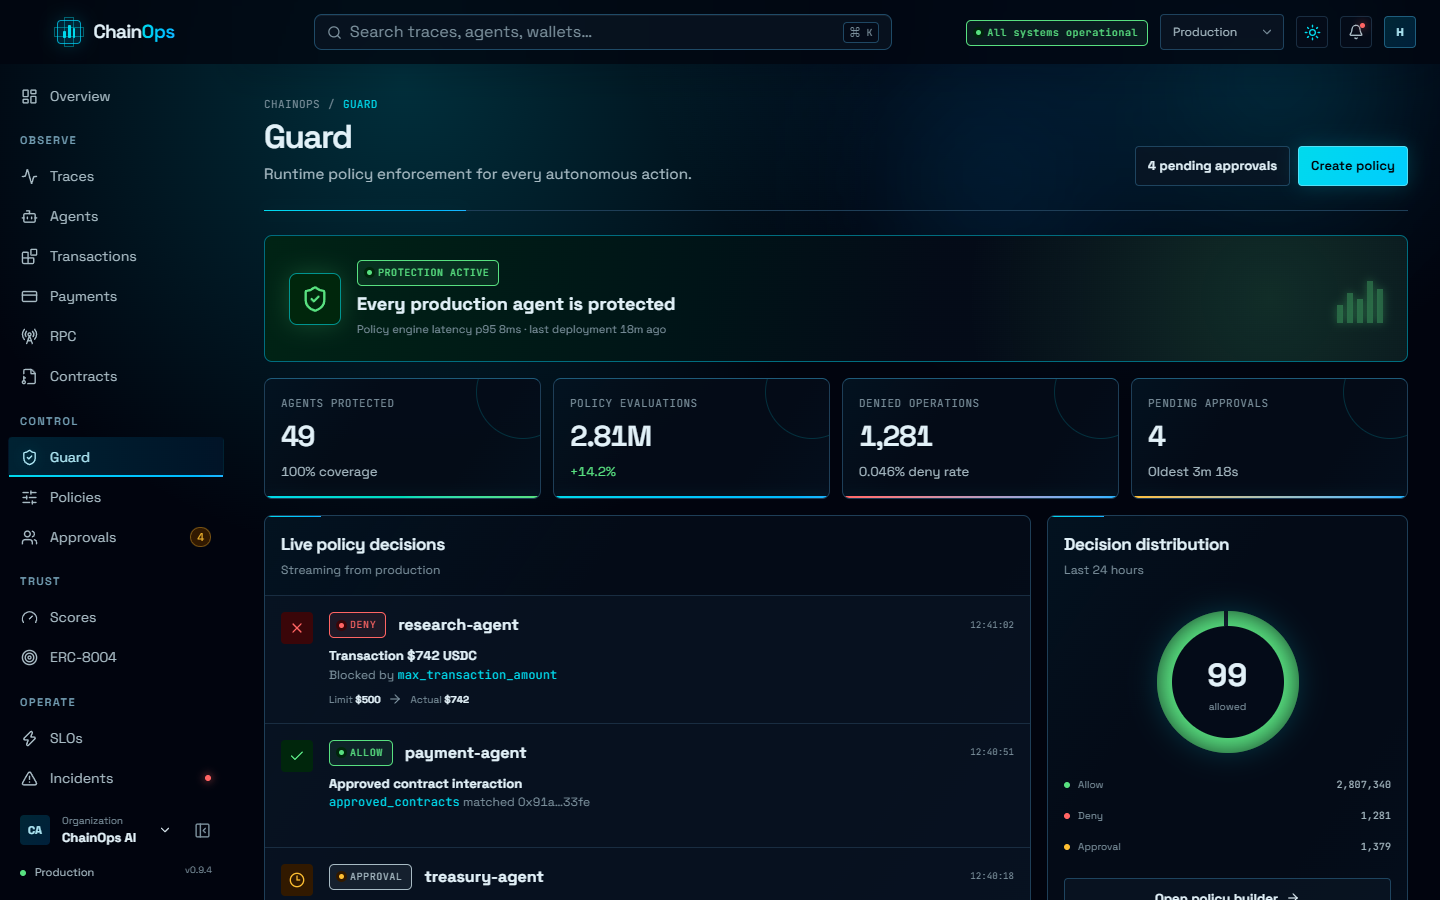
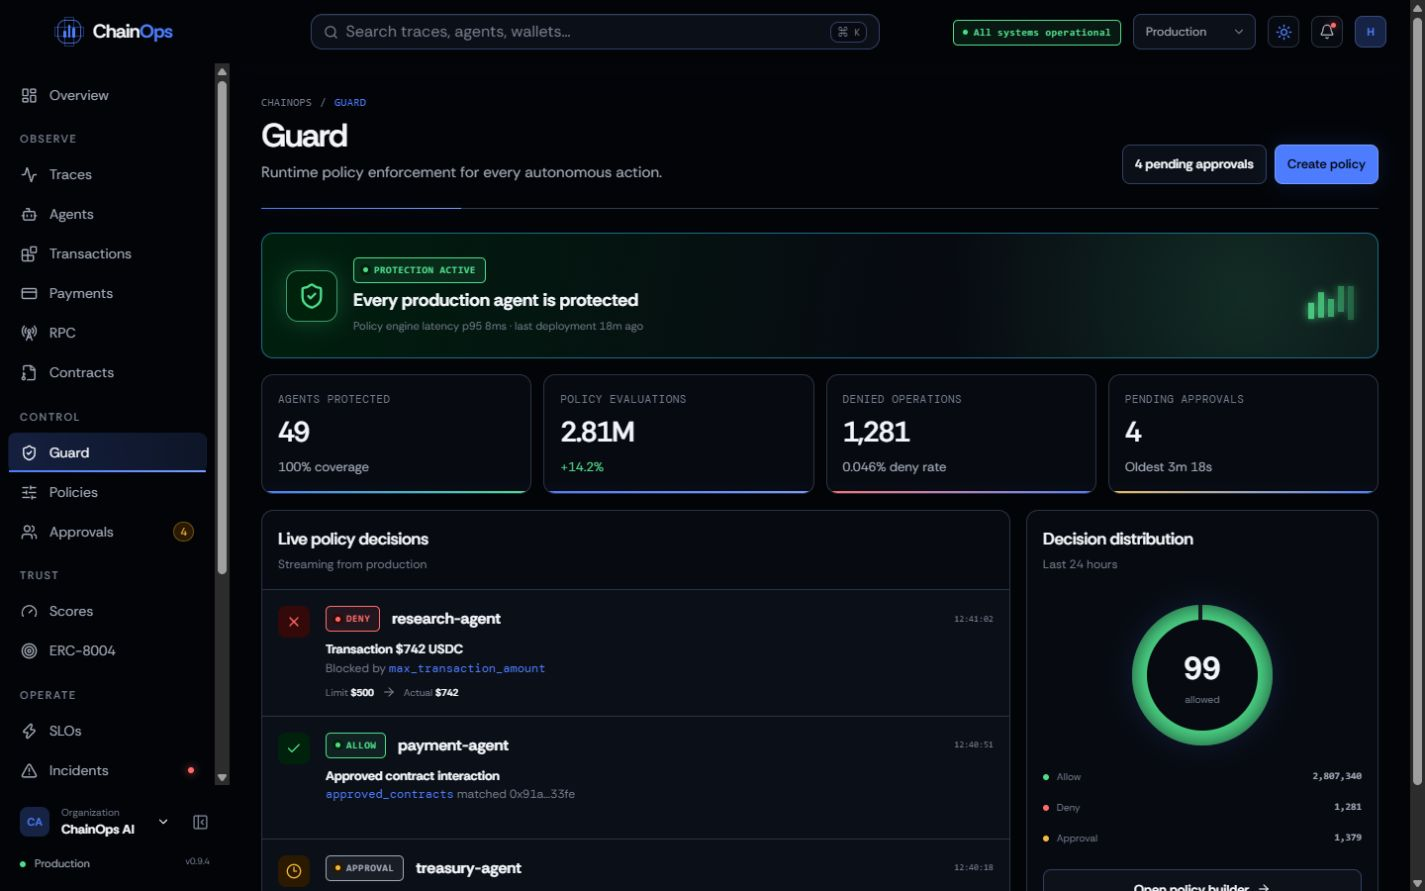
fix color error

diff --git a/src/styles.css b/src/styles.css
@@ -8,10 +8,10 @@
   --text: oklch(97% 0.006 264);
   --text-muted: oklch(73% 0.021 264);
   --text-dim: oklch(59% 0.026 264);
-  --cyan: oklch(66% 0.235 264);
-  --cyan-deep: oklch(51% 0.25 264);
-  --cobalt: oklch(72% 0.18 258);
-  --cobalt-deep: oklch(43% 0.2 264);
+  --cyan: #4d7cff;
+  --cyan-deep: #0052ff;
+  --cobalt: #76a0ff;
+  --cobalt-deep: #003ecf;
   --green: oklch(80% 0.17 154);
   --amber: oklch(82% 0.15 82);
   --on-primary: oklch(98% 0.004 264);
@@ -39,19 +39,19 @@
 }
 
 :root[data-theme="light"] {
-  --ink-0: oklch(98.5% 0.004 264);
-  --ink-1: oklch(99.5% 0.002 264);
-  --ink-2: oklch(96% 0.009 264);
-  --ink-3: oklch(91% 0.015 264);
-  --line: oklch(83% 0.024 264);
-  --line-soft: oklch(88% 0.018 264 / 0.82);
-  --text: oklch(16% 0.025 264);
-  --text-muted: oklch(42% 0.03 264);
-  --text-dim: oklch(54% 0.032 264);
-  --cyan: oklch(55% 0.26 264);
-  --cyan-deep: oklch(47% 0.245 264);
-  --cobalt: oklch(62% 0.22 258);
-  --cobalt-deep: oklch(43% 0.22 264);
+  --ink-0: oklch(100% 0 0);
+  --ink-1: oklch(100% 0 0);
+  --ink-2: oklch(96.5% 0 0);
+  --ink-3: oklch(91.5% 0 0);
+  --line: oklch(83% 0 0);
+  --line-soft: oklch(88% 0 0 / 0.82);
+  --text: oklch(15% 0 0);
+  --text-muted: oklch(40% 0 0);
+  --text-dim: oklch(53% 0 0);
+  --cyan: #0052ff;
+  --cyan-deep: #003ecf;
+  --cobalt: #2f6bff;
+  --cobalt-deep: #003ecf;
   --green: oklch(49% 0.15 154);
   --amber: oklch(55% 0.14 76);
 }
@@ -80,10 +80,10 @@ svg { flex: 0 0 auto; }
   transform-origin: 50% 48%;
   animation: backdrop-converge 1480ms var(--ease-expo) 80ms both;
 }
-.telemetry-backdrop::before { position: absolute; top: 48%; left: 50%; width: min(72vw, 1120px); aspect-ratio: 1; border: 1px solid color-mix(in oklch, var(--cyan-deep) 34%, transparent); border-radius: 50%; opacity: 0; transform: translate(-50%, -50%) scale(1.28); animation: orbit-converge 1540ms var(--ease-expo) 100ms both; content: ""; }
+.telemetry-backdrop::before { position: absolute; top: 48%; left: 50%; width: min(72vw, 1120px); aspect-ratio: 1; border: 1px solid color-mix(in srgb, var(--cyan-deep) 34%, transparent); border-radius: 50%; opacity: 0; transform: translate(-50%, -50%) scale(1.28); animation: orbit-converge 1540ms var(--ease-expo) 100ms both; content: ""; }
 .ambient-node { position: absolute; top: var(--ambient-y); left: var(--ambient-x); width: 144px; color: var(--cyan); opacity: calc(var(--ambient-opacity) + 0.04); animation: ambient-converge 1380ms var(--ease-expo) var(--ambient-intro-delay) both; }
-.ambient-node__body { min-height: 56px; padding: var(--space-2) var(--space-3); display: grid; grid-template-columns: 20px 1fr; align-items: center; gap: var(--space-2); border: 1px solid var(--line-soft); background: color-mix(in oklch, var(--ink-1) 68%, transparent); animation: ambient-float 16s var(--ease-out) var(--ambient-delay) infinite alternate; }
-.ambient-node--underlay .ambient-node__body { border-color: color-mix(in oklch, var(--line-soft) 64%, transparent); }
+.ambient-node__body { min-height: 56px; padding: var(--space-2) var(--space-3); display: grid; grid-template-columns: 20px 1fr; align-items: center; gap: var(--space-2); border: 1px solid var(--line-soft); background: color-mix(in srgb, var(--ink-1) 68%, transparent); animation: ambient-float 16s var(--ease-out) var(--ambient-delay) infinite alternate; }
+.ambient-node--underlay .ambient-node__body { border-color: color-mix(in srgb, var(--line-soft) 64%, transparent); }
 .ambient-node__body > span { min-width: 0; display: grid; gap: 3px; font-family: var(--mono); }
 .ambient-node small { overflow: hidden; color: var(--text-dim); font-size: 9px; text-overflow: ellipsis; white-space: nowrap; }
 .ambient-node strong { overflow: hidden; color: var(--text-muted); font-size: 10px; font-weight: 550; text-overflow: ellipsis; white-space: nowrap; }
@@ -99,7 +99,7 @@ main, footer { position: relative; z-index: 1; }
   right: 0;
   left: 0;
   z-index: 40;
-  background: color-mix(in oklch, var(--ink-0) 94%, transparent);
+  background: color-mix(in srgb, var(--ink-0) 94%, transparent);
   backdrop-filter: blur(20px);
 }
 .site-header::after { position: absolute; right: 0; bottom: 0; left: 0; height: 1px; background: var(--line-soft); content: ""; }
@@ -119,11 +119,11 @@ main {
 .brand-link { display: inline-flex; }
 .brand { display: inline-flex; align-items: center; gap: var(--space-3); font-family: var(--display); font-size: 19px; font-weight: 520; letter-spacing: -0.035em; }
 .brand strong { color: var(--cyan); font-weight: 720; }
-.brand-mark { position: relative; width: 24px; height: 24px; padding: 5px; display: flex; align-items: end; gap: 2px; overflow: visible; border: 1px solid color-mix(in oklch, var(--cyan) 70%, var(--line)); border-radius: var(--radius-sm); background: transparent; }
-.brand-mark::before, .brand-mark::after { position: absolute; border: 1px solid color-mix(in oklch, var(--cyan) 40%, transparent); content: ""; pointer-events: none; }
+.brand-mark { position: relative; width: 24px; height: 24px; padding: 5px; display: flex; align-items: end; gap: 2px; overflow: visible; border: 1px solid color-mix(in srgb, var(--cyan) 70%, var(--line)); border-radius: var(--radius-sm); background: transparent; }
+.brand-mark::before, .brand-mark::after { position: absolute; border: 1px solid color-mix(in srgb, var(--cyan) 40%, transparent); content: ""; pointer-events: none; }
 .brand-mark::before { inset: -4px 6px; }
 .brand-mark::after { inset: 6px -4px; }
-.brand-mark i { display: block; width: 3px; border-radius: 1px; background: var(--cyan); box-shadow: 0 0 8px color-mix(in oklch, var(--cyan) 22%, transparent); }
+.brand-mark i { display: block; width: 3px; border-radius: 1px; background: var(--cyan); box-shadow: 0 0 8px color-mix(in srgb, var(--cyan) 22%, transparent); }
 .brand-mark i:nth-child(1) { height: 7px; }
 .brand-mark i:nth-child(2) { height: 13px; }
 .brand-mark i:nth-child(3) { height: 10px; }
@@ -166,14 +166,14 @@ h2 { color: var(--cyan); }
 .button:hover { transform: translateY(-2px); }
 .button:active { transform: translateY(1px) scale(0.99); }
 .button--primary { background: var(--cyan); color: var(--on-primary); }
-.button--primary:hover { background: color-mix(in oklch, var(--cyan) 88%, var(--text)); }
+.button--primary:hover { background: color-mix(in srgb, var(--cyan) 88%, var(--text)); }
 .button--secondary { border-color: var(--line); background: var(--ink-1); color: var(--text); }
 .button--secondary:hover { border-color: var(--cobalt); }
 
 .hero-visual { position: relative; z-index: 2; width: 100%; min-width: 0; perspective: 1200px; isolation: isolate; animation: hero-visual-enter 1120ms var(--ease-expo) 280ms both; }
 .hero-visual::before { display: none; }
 .operation-surface { --tilt-x: 0deg; --tilt-y: 0deg; --surface-x: 50%; --surface-y: 50%; position: relative; z-index: 1; width: 100%; min-width: 0; overflow: hidden; border: 1px solid transparent; border-radius: var(--radius-md); background: transparent; box-shadow: none; transform: rotateX(var(--tilt-x)) rotateY(var(--tilt-y)) translateZ(0); transform-style: preserve-3d; transition: transform 220ms var(--ease-out), border-color 200ms var(--ease-out), background-color 220ms var(--ease-out), box-shadow 260ms var(--ease-out); will-change: transform; }
-.operation-surface:hover { border-color: color-mix(in oklch, var(--cyan) 72%, var(--line)); background-color: color-mix(in oklch, var(--ink-1) 97%, var(--cyan) 3%); box-shadow: 0 28px 80px color-mix(in oklch, var(--text) 16%, transparent); }
+.operation-surface:hover { border-color: color-mix(in srgb, var(--cyan) 72%, var(--line)); background-color: color-mix(in srgb, var(--ink-1) 97%, var(--cyan) 3%); box-shadow: 0 28px 80px color-mix(in srgb, var(--text) 16%, transparent); }
 .operation-header { min-height: 64px; padding: 0 var(--space-6); display: grid; grid-template-columns: 1fr auto auto; align-items: center; gap: var(--space-6); }
 .operation-header > div { display: grid; gap: 2px; }
 .operation-header > div span { color: var(--text-dim); font-size: 10px; letter-spacing: 0.08em; text-transform: uppercase; }
@@ -182,18 +182,19 @@ h2 { color: var(--cyan); }
 .live-state { display: inline-flex; align-items: center; gap: var(--space-2); color: var(--green); }
 .live-state i { width: 6px; height: 6px; border-radius: 50%; background: currentColor; box-shadow: 0 0 12px currentColor; }
 .operation-intent { min-height: 88px; padding: var(--space-4) var(--space-6); display: grid; grid-template-columns: 40px 1fr auto; align-items: center; gap: var(--space-4); }
-.operation-intent__icon { width: 40px; height: 40px; display: grid; place-items: center; border: 0; border-radius: var(--radius-sm); background: color-mix(in oklch, var(--cyan) 12%, transparent); color: var(--cyan); }
+.operation-intent__icon { width: 40px; height: 40px; display: grid; place-items: center; border: 0; border-radius: var(--radius-sm); background: color-mix(in srgb, var(--cyan) 12%, transparent); color: var(--cyan); }
 .operation-intent > div { display: grid; gap: var(--space-1); }
 .operation-intent small { color: var(--text-dim); font-size: 10px; letter-spacing: 0.08em; text-transform: uppercase; }
 .operation-intent strong { color: var(--text); font-size: 15px; }
 .operation-intent > span:last-child { color: var(--text-dim); font-family: var(--mono); font-size: 10px; }
 .operation-path { position: relative; padding: var(--space-8) var(--space-6); display: grid; grid-template-columns: repeat(5, minmax(0, 1fr)); }
-.operation-path::before { position: absolute; top: 51px; right: 11%; left: 11%; height: 1px; background: var(--signal); content: ""; }
+.operation-path::before { display: none; }
 .operation-stage { position: relative; z-index: 1; min-width: 0; display: grid; justify-items: center; gap: var(--space-2); text-align: center; }
+.operation-stage:not(:last-child)::after { position: absolute; top: 19px; left: calc(50% + 20px); width: calc(100% - 40px); height: 1px; background: var(--signal); content: ""; }
 .operation-stage > span { position: absolute; top: -14px; color: var(--text-dim); font-size: 9px; }
-.operation-stage svg { width: 40px; height: 40px; padding: 10px; border: 0; border-radius: var(--radius-sm); background: color-mix(in oklch, var(--cyan) 12%, transparent); color: var(--cyan); }
-.operation-stage:nth-child(3) svg { background: color-mix(in oklch, var(--amber) 11%, transparent); color: var(--amber); }
-.operation-stage:last-child svg { background: color-mix(in oklch, var(--green) 11%, transparent); color: var(--green); }
+.operation-stage svg { position: relative; z-index: 1; width: 40px; height: 40px; padding: 10px; border: 0; border-radius: var(--radius-sm); background: color-mix(in srgb, var(--cyan) 12%, transparent); color: var(--cyan); }
+.operation-stage:nth-child(3) svg { background: color-mix(in srgb, var(--amber) 11%, transparent); color: var(--amber); }
+.operation-stage:last-child svg { background: color-mix(in srgb, var(--green) 11%, transparent); color: var(--green); }
 .operation-stage strong { font-size: 11px; }
 .operation-stage small { color: var(--text-dim); font-size: 9px; }
 .core-signals { display: grid; grid-template-columns: repeat(3, 1fr); }
@@ -274,12 +275,12 @@ h2 { color: var(--cyan); }
 .capture:hover img { transform: scale(1.012); filter: saturate(1.04) contrast(1.04); }
 .capture-open { width: 100%; height: 100%; padding: 0; display: block; overflow: hidden; border: 0; background: transparent; color: inherit; cursor: zoom-in; }
 .capture-open:focus-visible { outline: 2px solid var(--cyan); outline-offset: -3px; }
-.capture figcaption { position: absolute; right: 0; bottom: 0; left: 0; min-height: 64px; padding: var(--space-4); display: flex; align-items: center; justify-content: space-between; gap: var(--space-4); border-top: 1px solid var(--line-soft); background: color-mix(in oklch, var(--ink-0) 92%, transparent); pointer-events: none; backdrop-filter: blur(12px); }
+.capture figcaption { position: absolute; right: 0; bottom: 0; left: 0; min-height: 64px; padding: var(--space-4); display: flex; align-items: center; justify-content: space-between; gap: var(--space-4); border-top: 1px solid var(--line-soft); background: color-mix(in srgb, var(--ink-0) 92%, transparent); pointer-events: none; backdrop-filter: blur(12px); }
 .capture figcaption span { color: var(--cyan); font-size: 11px; letter-spacing: 0.08em; text-transform: uppercase; }
 .capture figcaption strong { max-width: 34ch; font-family: var(--display); font-size: 16px; text-align: right; }
 .capture--3 figcaption strong, .capture--4 figcaption strong { display: none; }
-.capture-more { position: absolute; z-index: 2; right: var(--space-3); bottom: var(--space-3); width: 108px; min-height: 108px; padding: var(--space-3); display: grid; place-content: center; justify-items: center; gap: 2px; border: 1px solid var(--cyan-deep); border-radius: var(--radius-sm); background: color-mix(in oklch, var(--ink-0) 88%, transparent); color: var(--text); cursor: zoom-in; backdrop-filter: blur(10px); transition: background-color 220ms var(--ease-out), transform 160ms var(--ease-out); }
-.capture-more:hover { background: color-mix(in oklch, var(--ink-0) 68%, var(--cyan-deep)); }
+.capture-more { position: absolute; z-index: 2; right: var(--space-3); bottom: var(--space-3); width: 108px; min-height: 108px; padding: var(--space-3); display: grid; place-content: center; justify-items: center; gap: 2px; border: 1px solid var(--cyan-deep); border-radius: var(--radius-sm); background: color-mix(in srgb, var(--ink-0) 88%, transparent); color: var(--text); cursor: zoom-in; backdrop-filter: blur(10px); transition: background-color 220ms var(--ease-out), transform 160ms var(--ease-out); }
+.capture-more:hover { background: color-mix(in srgb, var(--ink-0) 68%, var(--cyan-deep)); }
 .capture-more:hover { transform: translateY(-2px); }
 .capture-more svg { color: var(--cyan); }
 .capture-more strong { font-family: var(--display); font-size: 30px; }
@@ -300,7 +301,7 @@ h2 { color: var(--cyan); }
 .gallery-arrow--previous { left: var(--space-4); }
 .gallery-arrow--next { right: var(--space-4); }
 
-.cookie-consent { position: fixed; z-index: 60; bottom: var(--space-6); left: var(--space-6); width: min(392px, calc(100vw - 48px)); padding: var(--space-4); display: grid; grid-template-columns: 44px 1fr; gap: var(--space-3); border: 1px solid var(--line); border-radius: var(--radius-md); background: color-mix(in oklch, var(--ink-1) 96%, transparent); box-shadow: 0 16px 48px color-mix(in oklch, var(--ink-0) 72%, transparent); backdrop-filter: blur(16px); }
+.cookie-consent { position: fixed; z-index: 60; bottom: var(--space-6); left: var(--space-6); width: min(392px, calc(100vw - 48px)); padding: var(--space-4); display: grid; grid-template-columns: 44px 1fr; gap: var(--space-3); border: 1px solid var(--line); border-radius: var(--radius-md); background: color-mix(in srgb, var(--ink-1) 96%, transparent); box-shadow: 0 16px 48px color-mix(in srgb, var(--ink-0) 72%, transparent); backdrop-filter: blur(16px); }
 .cookie-consent__icon { width: 44px; height: 44px; display: grid; place-items: center; border: 1px solid var(--cyan-deep); border-radius: var(--radius-sm); color: var(--cyan); }
 .cookie-consent__copy { min-width: 0; }
 .cookie-consent__copy strong { font-family: var(--display); font-size: 17px; }
@@ -322,7 +323,7 @@ h2 { color: var(--cyan); }
 .console-event > span { color: var(--text-dim); font-size: 10px; }
 .console-event strong { margin-top: auto; color: var(--cyan); font-size: 14px; }
 .console-event small { margin-top: var(--space-2); color: var(--text-muted); line-height: 1.5; }
-.console-event--verified { background: color-mix(in oklch, var(--green) 6%, transparent); }
+.console-event--verified { background: color-mix(in srgb, var(--green) 6%, transparent); }
 .console-event--verified strong { color: var(--green); }
 
 .roadmap { display: grid; grid-template-columns: minmax(280px, 0.8fr) minmax(0, 1.4fr); gap: var(--space-24); border-top: 1px solid var(--line); }
@@ -345,7 +346,7 @@ h2 { color: var(--cyan); }
 .vision-points { align-self: center; display: grid; border-top: 1px solid var(--line); }
 .vision-points span { padding: var(--space-3) 0; border-bottom: 1px solid var(--line-soft); color: var(--text-muted); font-size: 13px; }
 
-.start { margin: var(--space-8) 0 0; padding: clamp(32px, 4vw, 56px); display: grid; grid-template-columns: minmax(240px, 0.85fr) minmax(280px, 1fr) auto; align-items: center; gap: clamp(24px, 4vw, 48px); border: 1px solid var(--cyan-deep); border-radius: var(--radius-md); background: color-mix(in oklch, var(--ink-1) 94%, var(--cyan) 6%); }
+.start { margin: var(--space-8) 0 0; padding: clamp(32px, 4vw, 56px); display: grid; grid-template-columns: minmax(240px, 0.85fr) minmax(280px, 1fr) auto; align-items: center; gap: clamp(24px, 4vw, 48px); border: 1px solid var(--cyan-deep); border-radius: var(--radius-md); background: color-mix(in srgb, var(--ink-1) 94%, var(--cyan) 6%); }
 .start > div > svg { margin-bottom: var(--space-5); color: var(--cyan); }
 .start h2 { max-width: 13ch; font-size: clamp(2rem, 3vw, 3.5rem); }
 .start > p { margin: 0; }
@@ -383,9 +384,9 @@ a:focus-visible, button:focus-visible { outline: 2px solid var(--cyan); outline-
 .reveal-pending { opacity: 0.12; transform: translate3d(var(--reveal-x), var(--reveal-y), 0) scale(var(--reveal-scale)); transition: opacity 560ms var(--ease-expo), transform 700ms var(--ease-expo); }
 .reveal-pending.reveal-visible { opacity: 1; transform: translate3d(0, 0, 0) scale(1); }
 
-.scroll-to-top { position: fixed; z-index: 55; right: var(--space-6); bottom: var(--space-6); width: 48px; height: 48px; display: grid; place-items: center; border: 1px solid var(--line); border-radius: var(--radius-sm); background: color-mix(in oklch, var(--ink-1) 92%, transparent); color: var(--text-muted); box-shadow: 0 12px 32px color-mix(in oklch, var(--ink-0) 58%, transparent); opacity: 0; visibility: hidden; pointer-events: none; transform: translateY(16px) scale(0.94); backdrop-filter: blur(14px); transition: opacity 180ms var(--ease-out), visibility 180ms var(--ease-out), transform 240ms var(--ease-out), border-color 180ms var(--ease-out), color 180ms var(--ease-out), box-shadow 240ms var(--ease-out); }
+.scroll-to-top { position: fixed; z-index: 55; right: var(--space-6); bottom: var(--space-6); width: 48px; height: 48px; display: grid; place-items: center; border: 1px solid var(--line); border-radius: var(--radius-sm); background: color-mix(in srgb, var(--ink-1) 92%, transparent); color: var(--text-muted); box-shadow: 0 12px 32px color-mix(in srgb, var(--ink-0) 58%, transparent); opacity: 0; visibility: hidden; pointer-events: none; transform: translateY(16px) scale(0.94); backdrop-filter: blur(14px); transition: opacity 180ms var(--ease-out), visibility 180ms var(--ease-out), transform 240ms var(--ease-out), border-color 180ms var(--ease-out), color 180ms var(--ease-out), box-shadow 240ms var(--ease-out); }
 .scroll-to-top--visible { opacity: 1; visibility: visible; pointer-events: auto; transform: translateY(0) scale(1); }
-.scroll-to-top:hover { border-color: var(--cyan); color: var(--cyan); box-shadow: 0 16px 40px color-mix(in oklch, var(--cyan-deep) 28%, transparent); transform: translateY(-3px); }
+.scroll-to-top:hover { border-color: var(--cyan); color: var(--cyan); box-shadow: 0 16px 40px color-mix(in srgb, var(--cyan-deep) 28%, transparent); transform: translateY(-3px); }
 .scroll-to-top:active { transform: translateY(1px) scale(0.98); }
 
 @keyframes ambient-float {
